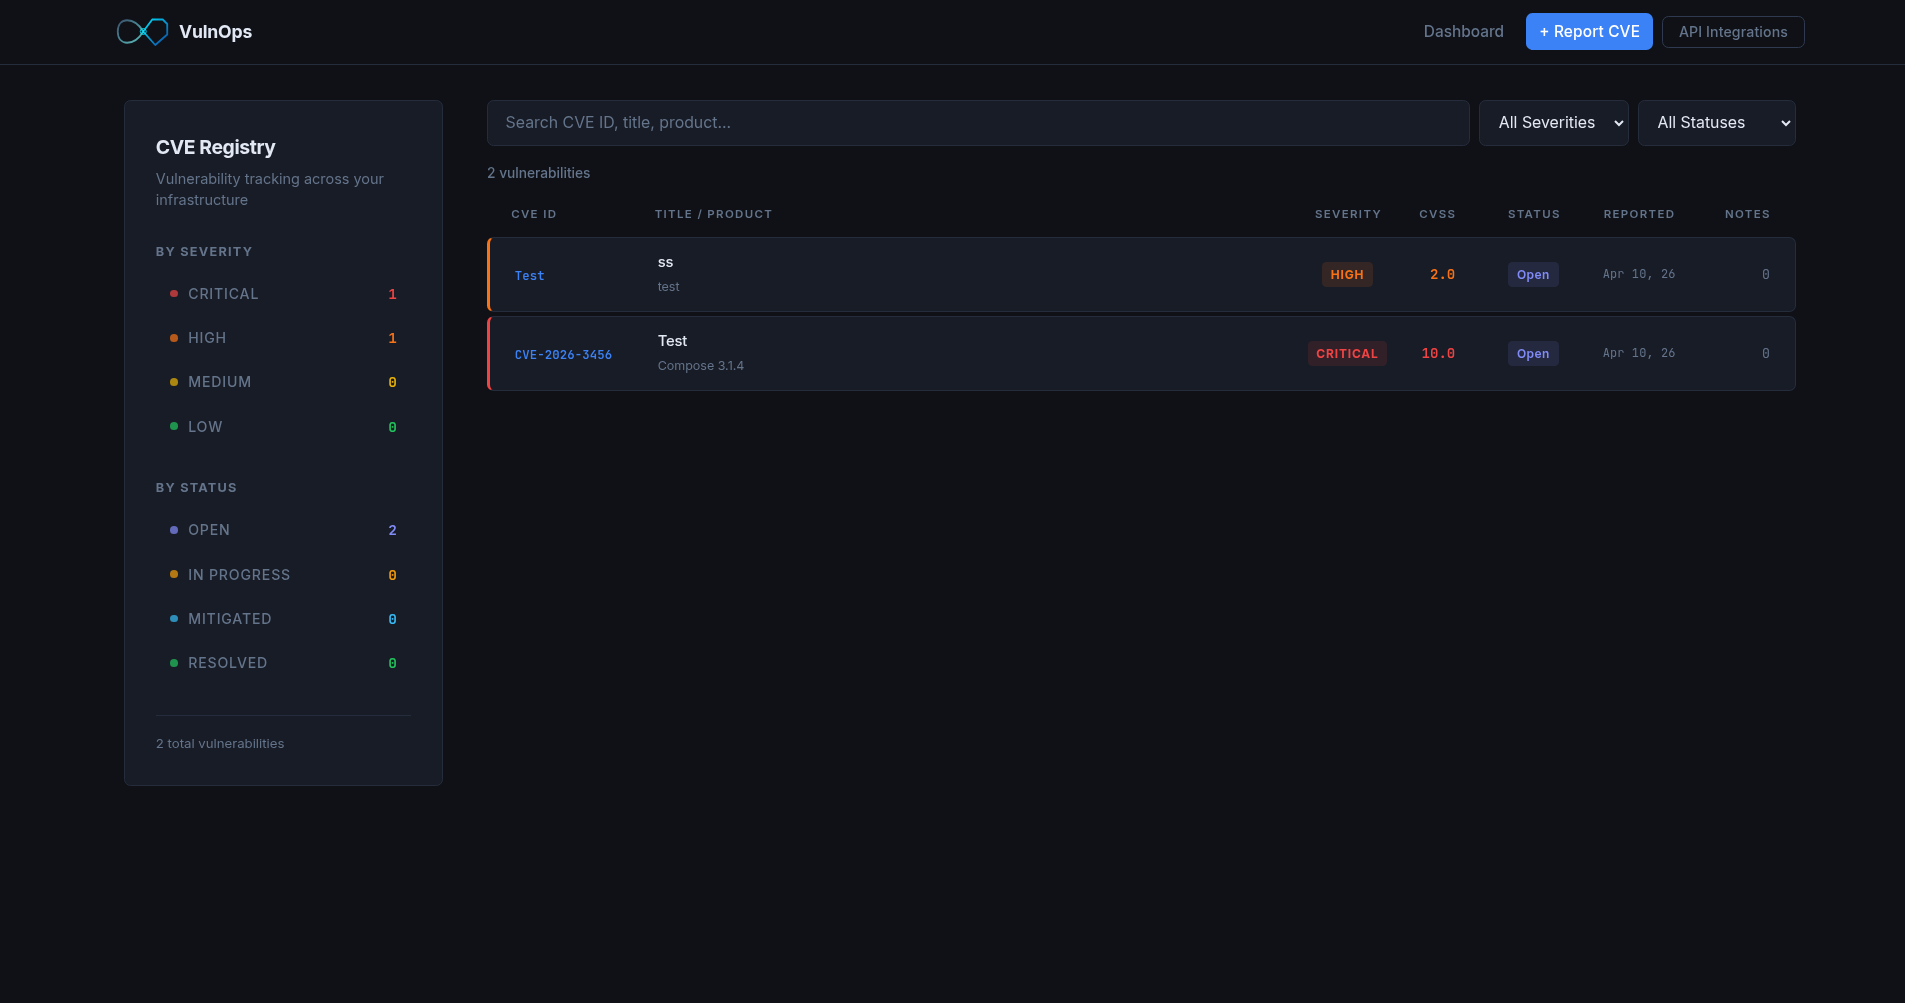
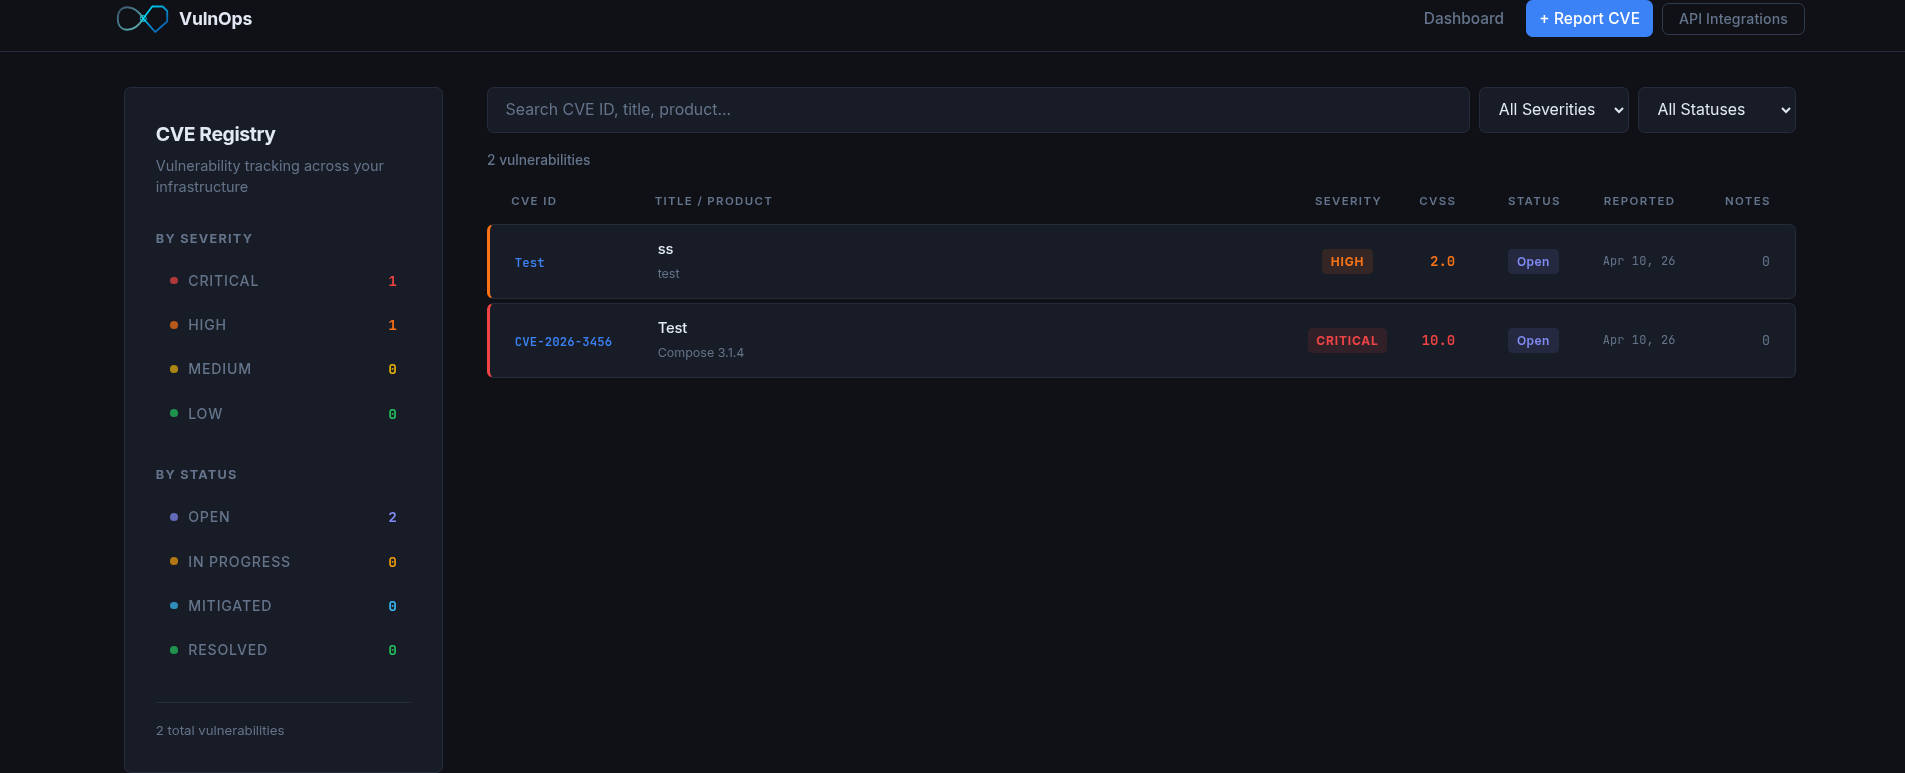
docs: crop UI screenshot and expand to full width in README

diff --git a/README.md b/README.md
@@ -18,7 +18,7 @@ VulnOps lets teams submit CVEs with an ID, severity, affected product, CVSS scor
 The application is deliberately simple. The security architecture around it is not: hardened containers, a locked-down Kubernetes deployment, a 10-stage CI pipeline, and AWS account-level monitoring, all provisioned through code.
 
 <p align="center">
-  <img src="Vulnops-UI.png" alt="VulnOps dashboard" width="90%"/>
+  <img src="Vulnops-UI.png" alt="VulnOps dashboard" width="100%"/>
 </p>
 
 ---
